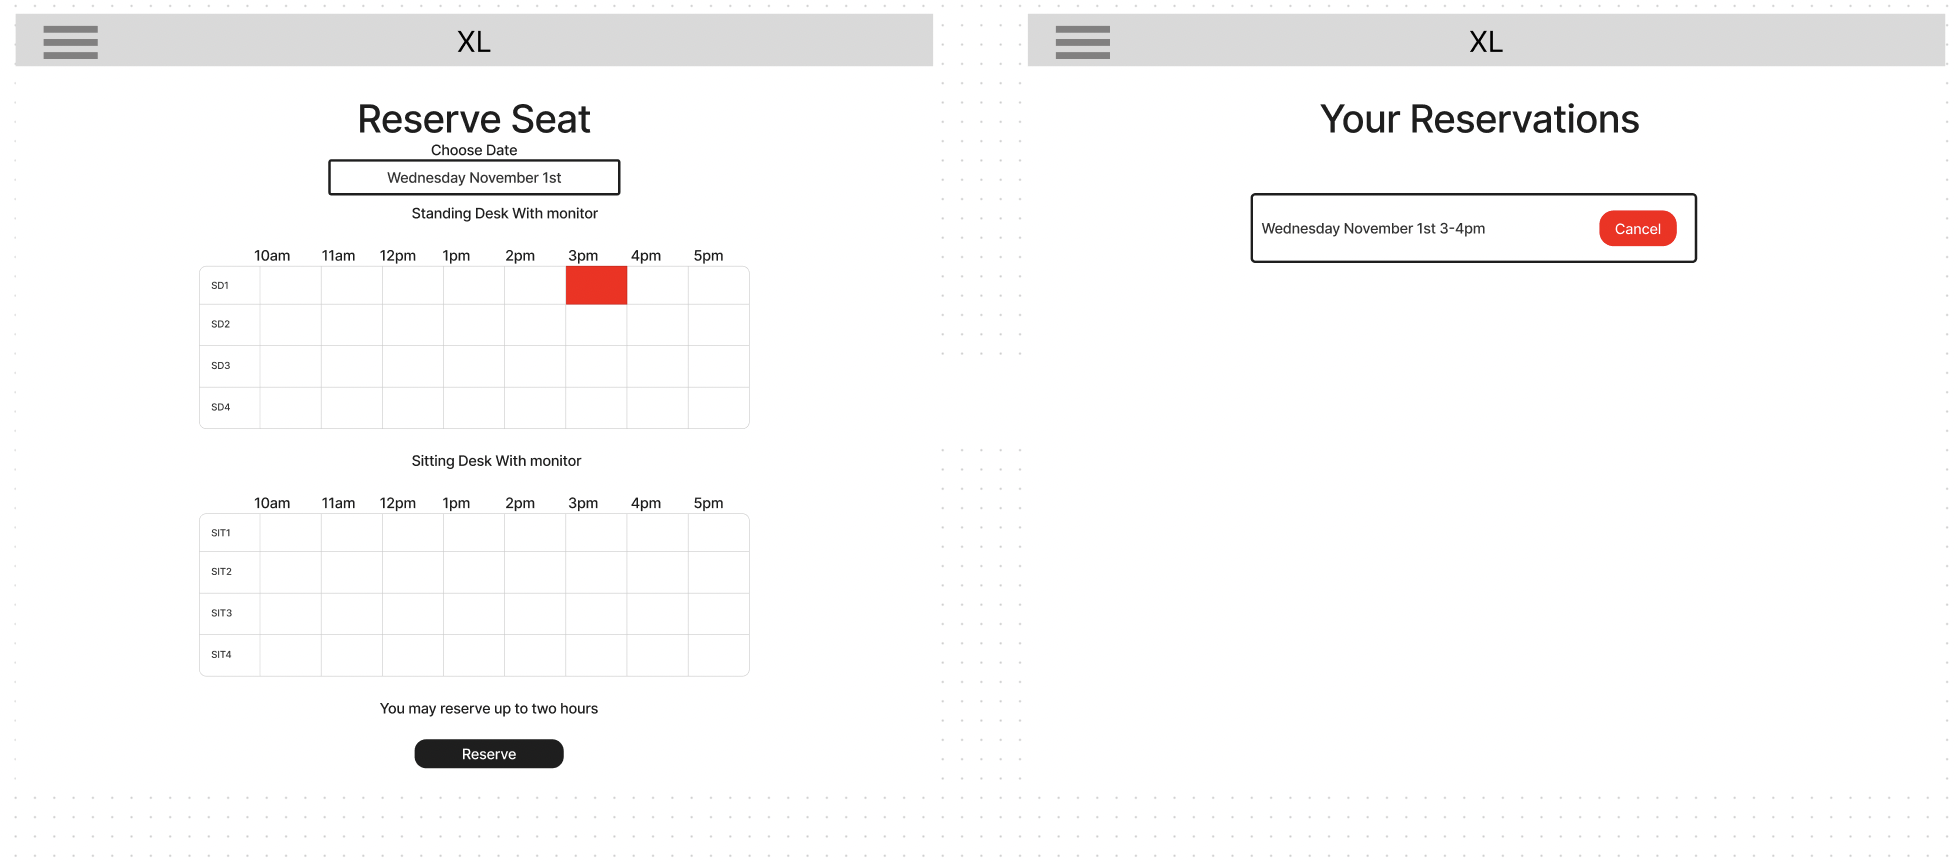
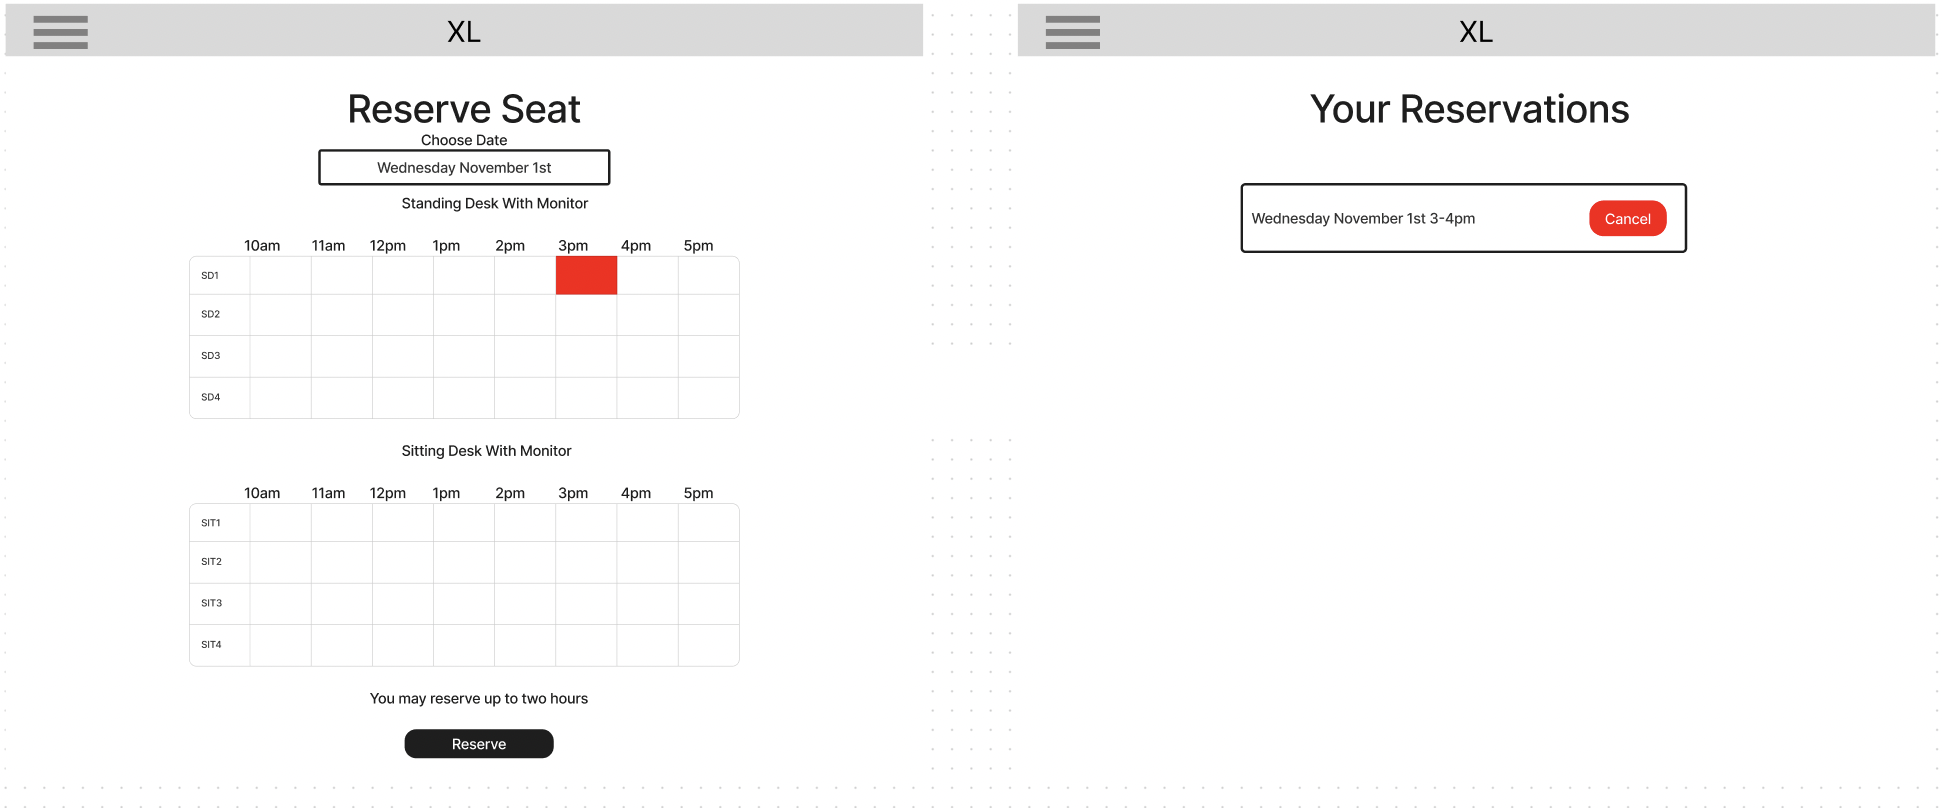
Add gramar changes

diff --git a/docs/seat-preservations-design-doc.md b/docs/seat-preservations-design-doc.md
@@ -1,3 +1,3 @@
-# Seat Pre-reservation Figma wireframe
+## Seat Pre-reservation Figma Wireframe
 
 ![Presreservation wireframe](/docs/images/reservationwireframe.png "Pre-reservation wireframe")
